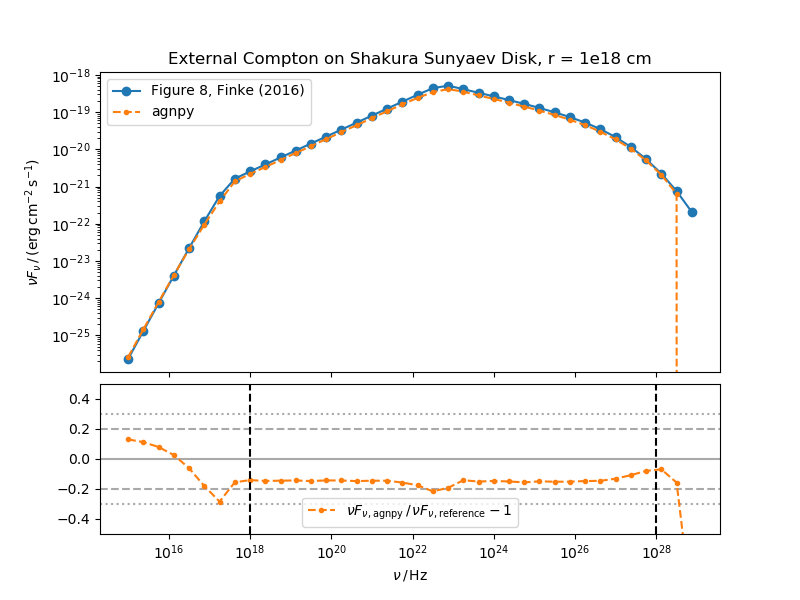
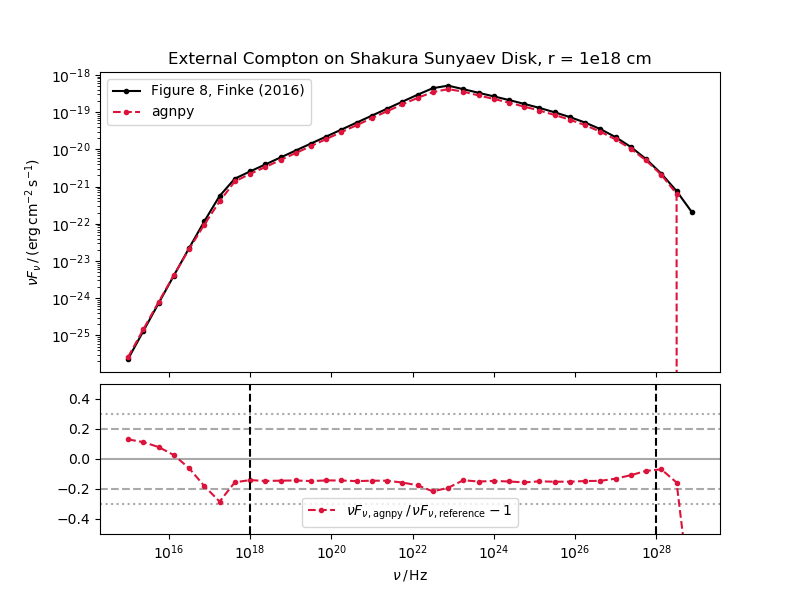
added absorption data and updated tests

diff --git a/agnpy/tests/test_absorption.py b/agnpy/tests/test_absorption.py
@@ -20,7 +20,7 @@ agnpy_dir = Path(__file__).parent.parent
 # where to read sampled files
 data_dir = agnpy_dir / "data"
 # where to save figures
-figures_dir = agnpy_dir.parent / "crosschecks/figures/compton"
+figures_dir = agnpy_dir.parent / "crosschecks/figures/absorption"
 figures_dir.mkdir(parents=True, exist_ok=True)
 
 # variables with _test are global and meant to be used in all tests
@@ -46,13 +46,16 @@ pwl_blob_test = Blob(
 class TestAbsorption:
     """class grouping all tests related to the Absorption class"""
 
-    def test_absorption_disk_reference_tau(self):
+    @pytest.mark.parametrize("r", ["1e-1", "1e0"])
+    def test_absorption_disk_reference_tau(self, r):
         """test agnpy gamma-gamma optical depth for Disk against the one in 
         Figure 14 of Finke 2016"""
         # reference tau
         E_ref, tau_ref = extract_columns_sample_file(
-            f"{data_dir}/sampled_taus/tau_disk_figure_14_finke_2016.txt", "GeV",
+            f"{data_dir}/reference_taus/finke_2016/figure_14_left/tau_SSdisk_r_{r}_R_Ly_alpha.txt",
+            "GeV",
         )
+        nu_ref = E_ref.to("Hz", equivalencies=u.spectral())
         # target
         M_BH = 1.2 * 1e9 * M_sun.cgs
         L_disk = 2e46 * u.Unit("erg s-1")
@@ -60,33 +63,32 @@ class TestAbsorption:
         R_in = 6
         R_out = 200
         disk = SSDisk(M_BH, L_disk, eta, R_in, R_out, R_g_units=True)
-        r = 1.1e16 * u.cm
-        # array of energies used in figure 14 of Finke
-        E = np.logspace(0, 5) * u.GeV
-        nu = E.to("Hz", equivalencies=u.spectral())
-        # compute the tau for agnpy
-        abs_disk = Absorption(pwl_blob_test, disk, r)
-        tau_agnpy = abs_disk.tau(nu)
-        # compute the absorption using the exact formula in Finke 2016
-        tau_finke = tau_disk_finke_2016(nu, pwl_blob_test, disk, r)
+        R_Ly_alpha = 1.1e16 * u.cm
+        _r = float(r) * R_Ly_alpha
+        # recompute the tau, use the full energy range of figure 14
+        abs_disk = Absorption(pwl_blob_test, disk, _r)
+        tau_agnpy = abs_disk.tau(nu_ref)
         # comparison plot
-        fig, ax = plt.subplots()
-        ax.loglog(E_ref, tau_ref, marker="o", ls="-", label="reference")
-        ax.loglog(E, tau_agnpy, marker=".", ls="--", label="agnpy")
-        ax.loglog(E, tau_finke, marker=".", ls="--", label="Finke 2016, Eq. 63")
-        ax.legend()
-        ax.set_title("Absorption Shakura Sunyaev Disk")
-        ax.set_xlabel(r"$E\,/\,{\rm GeV}$")
-        ax.set_ylabel(r"$\tau_{\gamma \gamma}$")
-        fig.savefig(f"{figures_dir}/tau_disk_comaprison_figure_14_finke_2016.png")
+        make_comparison_plot(
+            nu_ref,
+            tau_agnpy,
+            tau_ref,
+            "agnpy",
+            "Figure 14, Finke (2016)",
+            f"Absorption Shakura Sunyaev Disk, r = {r} R(Ly alpha)",
+            f"{figures_dir}/tau_disk_comparison_r_{r}_R_Ly_alpha_figure_14_finke_2016.png",
+            "tau",
+            y_range=[1e-5, 1e5],
+        )
         assert True
 
-    def test_abs_blr_reference_tau(self):
-        """test agnpy gamma-gamma optical depth for BLR against the one in 
-        Figure 14 of Finke 2016"""
+    @pytest.mark.parametrize("r", ["1e-1", "1e0", "1e0.5", "1e1"])
+    def test_absorption_blr_reference_tau(self, r):
+        """test agnpy gamma-gamma optical depth for a Lyman alpha BLR against 
+        the one in Figure 14 of Finke 2016"""
         # reference tau
         E_ref, tau_ref = extract_columns_sample_file(
-            f"{data_dir}/sampled_taus/tau_blr_lyman_alpha_figure_14_finke_2016.txt",
+            f"{data_dir}/reference_taus/finke_2016/figure_14_left/tau_BLR_Ly_alpha_r_{r}_R_Ly_alpha.txt",
             "GeV",
         )
         nu_ref = E_ref.to("Hz", equivalencies=u.spectral())
@@ -95,29 +97,33 @@ class TestAbsorption:
         xi_line = 0.024
         R_line = 1e17 * u.cm
         blr = SphericalShellBLR(L_disk, xi_line, "Lyalpha", R_line)
-        r = 1.1e16 * u.cm
+        R_Ly_alpha = 1.1e16 * u.cm
+        _r = float(r) * R_Ly_alpha if r != "1e0.5" else np.sqrt(10) * R_Ly_alpha
         # recompute the tau, use the full energy range of figure 14
-        ec_blr = Absorption(pwl_blob_test, blr, r)
+        ec_blr = Absorption(pwl_blob_test, blr, _r)
         tau_agnpy = ec_blr.tau(nu_ref)
         # comparison plot
         make_comparison_plot(
             nu_ref,
-            tau_ref,
             tau_agnpy,
-            "Figure 14, Finke (2016)",
+            tau_ref,
             "agnpy",
-            "Absorption on Spherical Shell Broad Line Region",
-            f"{figures_dir}/tau_blr_lyman_alpha_comparison_figure_14_finke_2016.png",
+            "Figure 14, Finke (2016)",
+            f"Absorption on Spherical Shell BLR, r = {r} R(Ly alpha)",
+            f"{figures_dir}/tau_BLR_Ly_alpha_comprison_r_{r}_R_Ly_alpha_figure_14_finke_2016.png",
             "tau",
+            y_range=[1e-5, 1e3],
         )
         assert True
 
-    def test_abs_dt_reference_tau(self):
+    @pytest.mark.parametrize("r", ["1e-1", "1e0", "1e1", "1e2"])
+    def test_absorption_dt_reference_tau(self, r):
         """test agnpy gamma-gamma optical depth for DT against the one in 
         Figure 14 of Finke 2016"""
         # reference tau
         E_ref, tau_ref = extract_columns_sample_file(
-            f"{data_dir}/sampled_taus/tau_dt_figure_14_finke_2016.txt", "GeV"
+            f"{data_dir}/reference_taus/finke_2016/figure_14_left/tau_DT_r_{r}_R_Ly_alpha.txt",
+            "GeV",
         )
         nu_ref = E_ref.to("Hz", equivalencies=u.spectral())
         # target
@@ -125,20 +131,22 @@ class TestAbsorption:
         T_dt = 1e3 * u.K
         csi_dt = 0.1
         dt = RingDustTorus(L_disk, csi_dt, T_dt)
-        r = 1.1e16 * u.cm
+        R_Ly_alpha = 1.1e16 * u.cm
+        _r = float(r) * R_Ly_alpha
         # recompute the tau, use the full energy range of figure 14
-        ec_dt = Absorption(pwl_blob_test, dt, r)
+        ec_dt = Absorption(pwl_blob_test, dt, _r)
         tau_agnpy = ec_dt.tau(nu_ref)
         # comparison plot
         make_comparison_plot(
             nu_ref,
-            2 * tau_ref,
             tau_agnpy,
-            "Figure 14, Finke (2016)",
+            2 * tau_ref,
             "agnpy",
-            "Absorption on Ring Dust Torus",
-            f"{figures_dir}/tau_dt_comparison_figure_14_finke_2016.png",
+            "Figure 14, Finke (2016)",
+            f"Absorption on Dust Torus, r = {r} R(Ly alpha)",
+            f"{figures_dir}/tau_DT_comprison_r_{r}_R_Ly_alpha_figure_14_finke_2016.png",
             "tau",
+            y_range=[1e-5, 1e3],
         )
         assert True
 
@@ -164,17 +172,17 @@ class TestAbsorption:
         # sed comparison plot
         make_comparison_plot(
             nu,
-            tau_blr,
             tau_ps_blr,
-            "spherical shell BLR",
+            tau_blr,
             "point source approximating the BLR",
+            "spherical shell BLR",
             "Absorption on Spherical Shell BLR, "
             + r"$r = 10^{20}\,{\rm cm} \gg R_{\rm line}$",
             f"{figures_dir}/tau_blr_point_source_comparison.png",
             "tau",
         )
         # requires a 10% deviation from the two SED points
-        assert check_deviation(nu, tau_blr, tau_ps_blr, 0, 0.1)
+        assert check_deviation(nu, tau_blr, tau_ps_blr, 0.1)
 
     def test_abs_dt_vs_point_source(self):
         """check if in the limit of large distances the gamma-gamma optical depth 
@@ -197,17 +205,17 @@ class TestAbsorption:
         tau_ps_dt = abs_ps_dt.tau(nu)
         make_comparison_plot(
             nu,
-            tau_dt,
             tau_ps_dt,
-            "ring dust torus",
+            tau_dt,
             "point source approximating the DT",
+            "ring dust torus",
             "Absorption on Ring Dust Torus, "
             + r"$r = 10^{22}\,{\rm cm} \gg R_{\rm dt}$",
             f"{figures_dir}/tau_dt_point_source_comparison.png",
             "tau",
         )
         # requires a 10% deviation from the two SED points
-        assert check_deviation(nu, tau_dt, tau_ps_dt, 0, 0.1)
+        assert check_deviation(nu, tau_dt, tau_ps_dt, 0.1)
 
 
 class TestEBL:
@@ -225,13 +233,13 @@ class TestEBL:
         absorption_ref = ebl.values_ref[z_idx]
         make_comparison_plot(
             nu_ref,
-            absorption_ref,
             absorption,
+            absorption_ref,
+            "agnpy interpolation",
             "data",
-            "interpolated",
             f"EBL absorption, {model} model, z = {z}",
             f"{figures_dir}/ebl_abs_interp_comparison_{model}_z_{z}.png",
             "abs.",
         )
         # requires a 1% deviation from the two SED points
-        assert check_deviation(nu_ref, absorption_ref, absorption, 0, 0.01)
+        assert check_deviation(nu_ref, absorption_ref, absorption, 0.01)

diff --git a/agnpy/tests/utils.py b/agnpy/tests/utils.py
@@ -62,10 +62,9 @@ def make_comparison_plot(
     nu: :class:`~astropy.units.Quantity`
         frequencies over which the comparison plot has to be plotted
     y_comp: :class:`~astropy.units.Quantity` or :class:`~numpy.ndarray`
-        SED or gamma-gamma absorption to compare with (usually agnpy)
+        SED or gamma-gamma absorption to be compared (usually agnpy)
     y_ref: :class:`~astropy.units.Quantity` or :class:`~numpy.ndarray`
-        SED or gamma-gamma absorption to be compare with (from literature or
-        another code)
+        reference SED or gamma-gamma absorption (from literature or another code)
     ref_label : `string`
         label of the reference model
     comp_label : `string`
@@ -106,8 +105,10 @@ def make_comparison_plot(
     )
     # plot the SEDs or TAUs in the upper panel
     # plot the reference sed with a continuous line and agnpy sed with a dashed one
-    ax[0].loglog(nu, y_ref, marker="o", ls="-", lw=1.5, label=ref_label)
-    ax[0].loglog(nu, y_comp, marker=".", ls="--", lw=1.5, label=comp_label)
+    ax[0].loglog(nu, y_ref, marker=".", ls="-", color="k", lw=1.5, label=ref_label)
+    ax[0].loglog(
+        nu, y_comp, marker=".", ls="--", color="crimson", lw=1.5, label=comp_label
+    )
     ax[0].set_ylabel(y_label)
     ax[0].set_title(fig_title)
     ax[0].legend(loc="best")
@@ -122,7 +123,13 @@ def make_comparison_plot(
     ax[1].axhline(-0.3, ls=":", color="darkgray")
     ax[1].set_ylim([-0.5, 0.5])
     ax[1].semilogx(
-        nu, deviation, marker=".", ls="--", color="C1", lw=1.5, label=deviation_label
+        nu,
+        deviation,
+        marker=".",
+        ls="--",
+        color="crimson",
+        lw=1.5,
+        label=deviation_label,
     )
     ax[1].set_xlabel(x_label)
     ax[1].legend(loc="best")

diff --git a/agnpy/tests/test_compton.py b/agnpy/tests/test_compton.py
@@ -20,7 +20,7 @@ data_dir = agnpy_dir / "data"
 figures_dir = agnpy_dir.parent / "crosschecks/figures/compton"
 figures_dir.mkdir(parents=True, exist_ok=True)
 
-# variables with _test are global and meant to be used in all tests  
+# variables with _test are global and meant to be used in all tests
 pwl_spectrum_norm_test = 1e48 * u.Unit("erg")
 pwl_dict_test = {
     "type": "PowerLaw",
